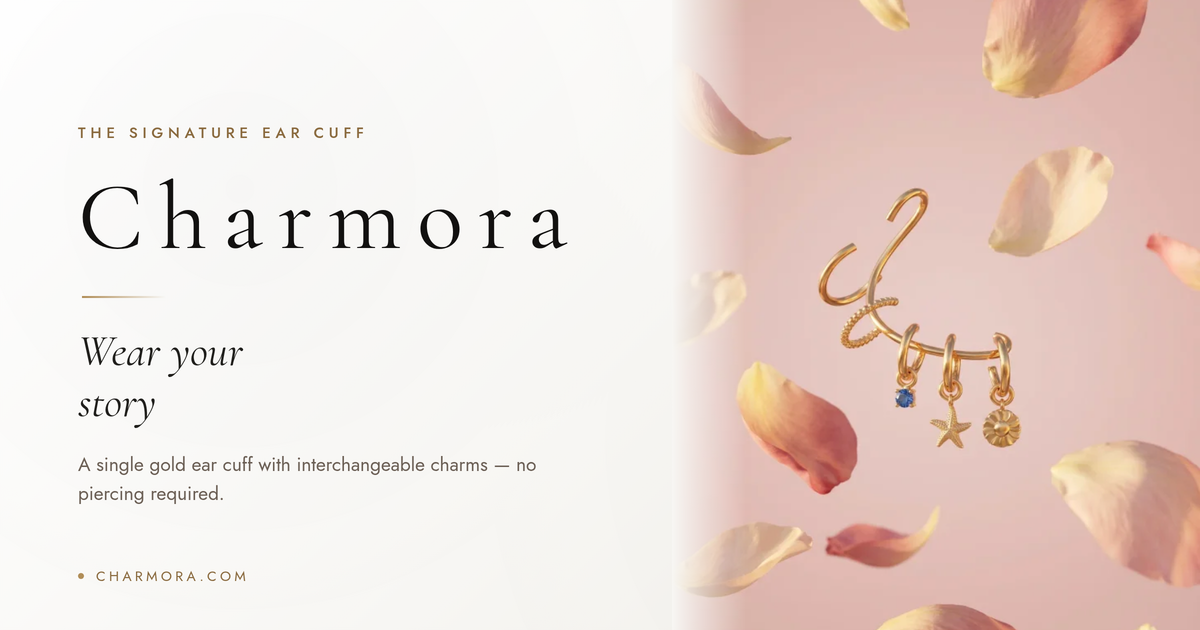
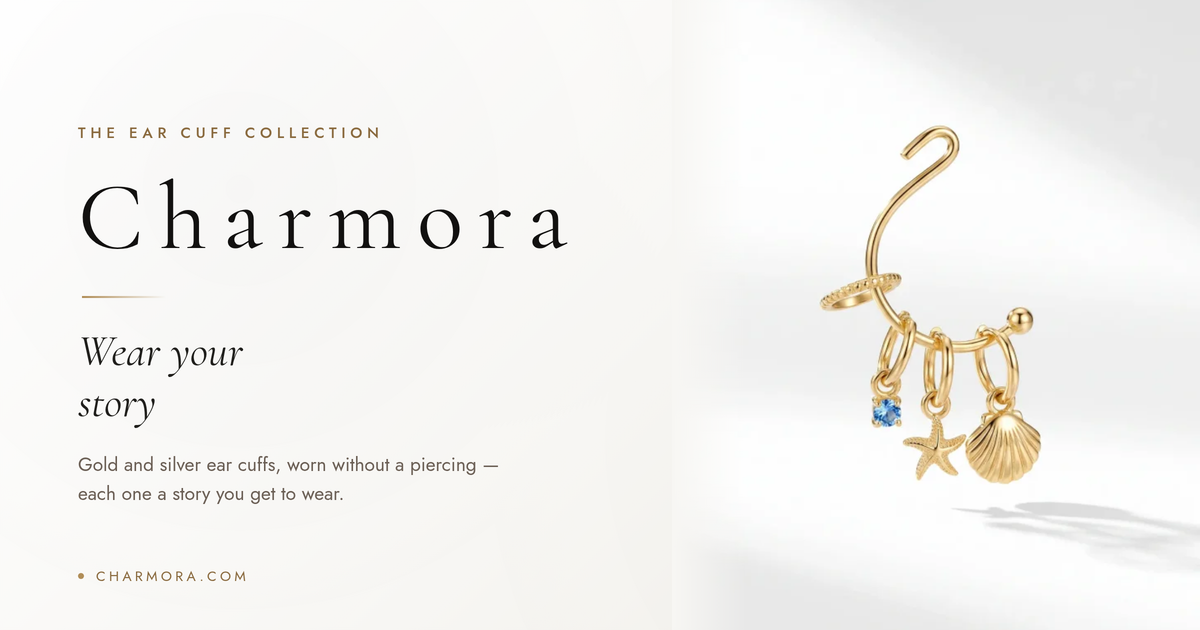
Remove the pink petals product photo
Drops product-petals.webp (the pink-background shot) everywhere it
appeared: the Signature Ear Cuff's second image in Product Reveal, the
gallery grid, and the OG image template. The Signature Ear Cuff now
shows a single static studio shot instead of the drag-to-explore
crossfade, since that interaction depended on having two angles. The
gallery tile is replaced with the gold Gem Fringe photo, and the OG
image/copy is regenerated with the same white/gold framing as the
rest of the site.

diff --git a/scripts/og-template.html b/scripts/og-template.html
@@ -157,14 +157,14 @@
   <div class="card">
     <div class="grain"></div>
     <div class="text-panel">
-      <span class="eyebrow">The Signature Ear Cuff</span>
+      <span class="eyebrow">The Ear Cuff Collection</span>
       <div class="wordmark">Charmora</div>
       <div class="rule"></div>
       <div class="tagline">Wear your<br/>story</div>
-      <p class="sub">A single gold ear cuff with interchangeable charms &mdash; no piercing required.</p>
+      <p class="sub">Gold and silver ear cuffs, worn without a piercing &mdash; each one a story you get to wear.</p>
     </div>
     <div class="image-panel">
-      <img src="../public/images/product-petals.webp" />
+      <img src="../public/images/product-studio.webp" />
       <div class="image-fade"></div>
     </div>
     <div class="corner-mark">

diff --git a/components/CustomerGallery.tsx b/components/CustomerGallery.tsx
@@ -6,7 +6,7 @@ import Reveal from "./ui/Reveal";
 import SectionLabel from "./ui/SectionLabel";
 
 const TILES = [
-  { type: "image" as const, src: "/images/product-petals.webp", position: "center", span: "row-span-2" },
+  { type: "image" as const, src: "/images/product-gem-fringe-gold.webp", position: "center", span: "row-span-2" },
   { type: "image" as const, src: "/images/ear-cuff-profile-clean.webp", position: "center", span: "" },
   { type: "image" as const, src: "/images/product-pearl-blossom.webp", position: "center", span: "" },
   { type: "image" as const, src: "/images/lifestyle-mirror-kitchen.webp", position: "top", span: "" },

diff --git a/lib/shopify.ts b/lib/shopify.ts
@@ -76,7 +76,7 @@ export const PRODUCTS: Product[] = [
     metal: "gold",
     price: 148,
     currency: "USD",
-    images: ["/images/product-studio.webp", "/images/product-petals.webp"],
+    images: ["/images/product-studio.webp"],
     hasCharmBuilder: true,
     meaningLabel: "Your Story",
     meaningText: "Choose up to three charms and make it yours.",